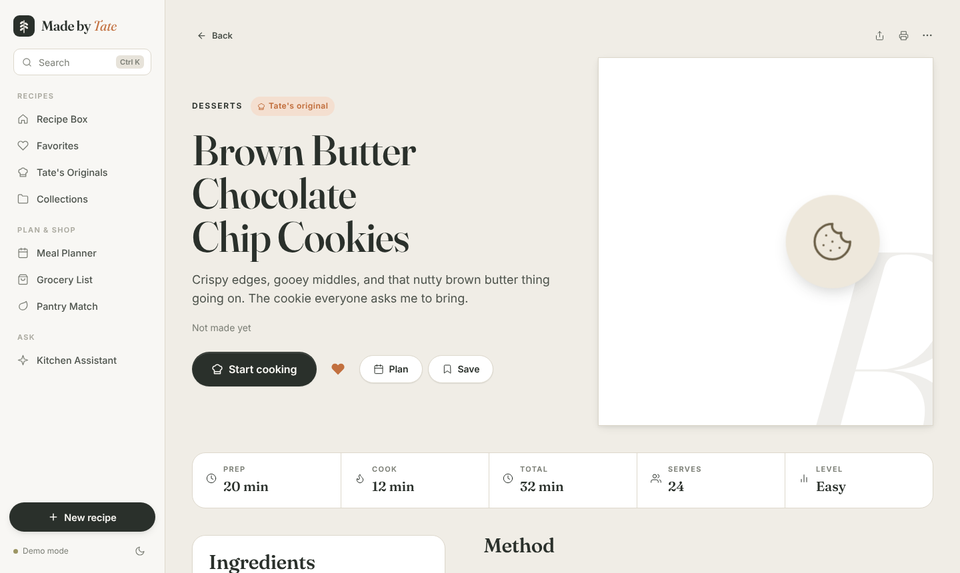
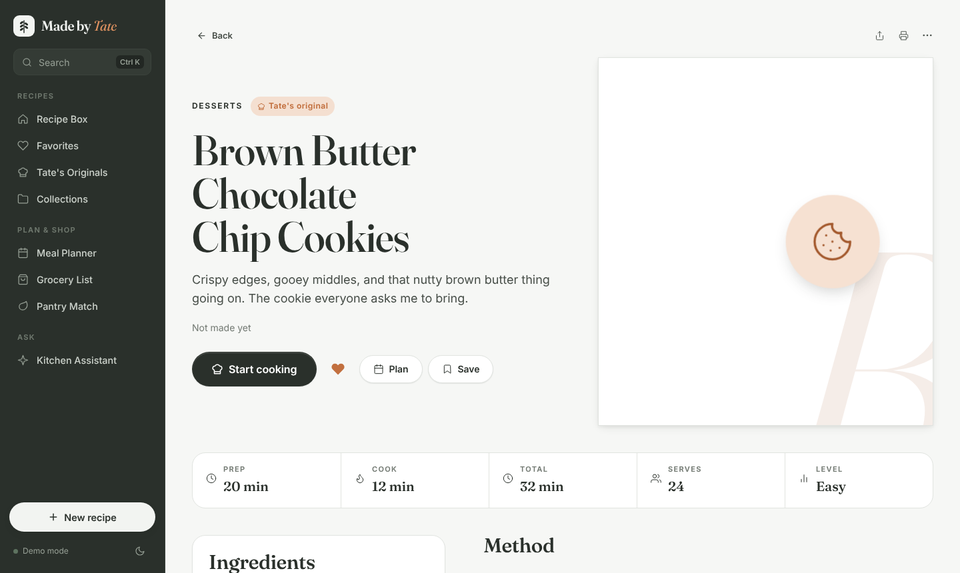
Drop the tan tones; forest green sidebar and mobile bars
Light mode is now white and soft neutral grey-green instead of pearl
and matcha. The sidebar and the phone top and bottom bars use the
forest green surface (a shared .forest-surface token scope), matching
cook mode, whose accents move from matcha to sage. Recipe covers lose
their tan palettes.

Claude-Session: https://claude.ai/code/session_01Nc4sFvbNj8oEmtLyooanVQ

Changed region(s): [[0.0, 0.0, 0.1875, 1.0], [0.8438, 0.3857, 0.9062, 0.445]]

diff --git a/client/src/styles/globals.css b/client/src/styles/globals.css
@@ -1,40 +1,40 @@
 /* ─── Made by Tate — Design Tokens ──────────────────────────────
-   Palette: Pearl Oatmilk #F0EDE6, Golden Matcha #B4AD7E, Citrus Spice #D08453,
-   Forest Depth #2A302B. (--herb = forest/primary, --terracotta = citrus accent,
-   --saffron = matcha.)
+   White surfaces, Forest Depth #2A302B for ink, buttons, the sidebar and cook
+   mode, and Citrus Spice #D08453 as the accent. No tan.
+   (--herb = forest/primary, --terracotta = citrus accent, --saffron = sage.)
    Every color is a token so the whole app flips to dark mode.
    ─────────────────────────────────────────────────────────────── */
 :root {
   color-scheme: light;
 
   /* Surfaces */
-  --bg:            #F0EDE6;   /* pearl oatmilk */
+  --bg:            #F6F7F5;   /* soft white */
   --bg-raised:     #FFFFFF;   /* cards */
-  --bg-sunken:     #E7E3DA;   /* wells, inputs at rest */
-  --bg-hover:      #EAE6DE;
+  --bg-sunken:     #EEF0ED;   /* wells, inputs at rest */
+  --bg-hover:      #F0F2EF;
   --bg-overlay:    rgba(30, 34, 31, 0.5);
 
   /* Ink */
   --ink:           #2A302B;
-  --ink-2:         #4C524B;
-  --ink-3:         #7A7D74;
-  --ink-4:         #ABAAA0;
-  --ink-inverse:   #FAF8F4;
+  --ink-2:         #464D47;
+  --ink-3:         #737A73;
+  --ink-4:         #A6ACA6;
+  --ink-inverse:   #FFFFFF;
 
   /* Brand */
   --herb:          #2A302B;   /* forest depth */
   --herb-strong:   #1C211D;
-  --herb-soft:     #E4E1CF;
-  --herb-faint:    #EEECE2;
+  --herb-soft:     #E2E8E1;
+  --herb-faint:    #EEF2ED;
   --terracotta:    #C2703F;
   --terracotta-soft:#F4DFD0;
-  --saffron:       #9C9563;
-  --saffron-soft:  #E9E6D4;
+  --saffron:       #5E7360;
+  --saffron-soft:  #E2E8E1;
   --berry:         #8C5A3C;
 
   /* Lines */
-  --line:          #DDD8CC;
-  --line-strong:   #C9C3B4;
+  --line:          #E1E4E0;
+  --line-strong:   #C8CEC7;
 
   /* Feedback */
   --danger:        #B3392C;
@@ -87,7 +87,7 @@
   --green-dark: var(--herb-strong);
   --green-deep: var(--herb-strong);
   --green-mid: var(--herb);
-  --green-sage: #B4AD7E;
+  --green-sage: #A9BFA5;
   --green-soft: var(--herb-soft);
   --green-mist: var(--herb-soft);
   --green-pale: var(--herb-soft);
@@ -113,19 +113,19 @@
     --bg-sunken:     #181C19;
     --bg-hover:      #333A34;
     --bg-overlay:    rgba(0, 0, 0, 0.62);
-    --ink:           #F0EDE6;
-    --ink-2:         #CFCBC0;
-    --ink-3:         #9A9A8E;
-    --ink-4:         #6A6D64;
+    --ink:           #F2F4F1;
+    --ink-2:         #CDD3CC;
+    --ink-3:         #97A096;
+    --ink-4:         #677066;
     --ink-inverse:   #1F2420;
-    --herb:          #C4BD8E;
-    --herb-strong:   #D8D2A8;
-    --herb-soft:     #3A3D2E;
-    --herb-faint:    #2C3027;
+    --herb:          #A9BFA5;
+    --herb-strong:   #C2D4BE;
+    --herb-soft:     #33402F;
+    --herb-faint:    #283127;
     --terracotta:    #E39462;
     --terracotta-soft:#4A3122;
-    --saffron:       #C4BD8E;
-    --saffron-soft:  #3A3A2C;
+    --saffron:       #A9BFA5;
+    --saffron-soft:  #33402F;
     --line:          #363D37;
     --line-strong:   #4A524B;
     --danger:        #F07B6B;
@@ -143,19 +143,19 @@
   --bg-sunken:     #181C19;
   --bg-hover:      #333A34;
   --bg-overlay:    rgba(0, 0, 0, 0.62);
-  --ink:           #F0EDE6;
-  --ink-2:         #CFCBC0;
-  --ink-3:         #9A9A8E;
-  --ink-4:         #6A6D64;
+  --ink:           #F2F4F1;
+  --ink-2:         #CDD3CC;
+  --ink-3:         #97A096;
+  --ink-4:         #677066;
   --ink-inverse:   #1F2420;
-  --herb:          #C4BD8E;
-  --herb-strong:   #D8D2A8;
-  --herb-soft:     #3A3D2E;
-  --herb-faint:    #2C3027;
+  --herb:          #A9BFA5;
+  --herb-strong:   #C2D4BE;
+  --herb-soft:     #33402F;
+  --herb-faint:    #283127;
   --terracotta:    #E39462;
   --terracotta-soft:#4A3122;
-  --saffron:       #C4BD8E;
-  --saffron-soft:  #3A3A2C;
+  --saffron:       #A9BFA5;
+  --saffron-soft:  #33402F;
   --line:          #363D37;
   --line-strong:   #4A524B;
   --danger:        #F07B6B;
@@ -164,6 +164,28 @@
   --shadow-2: 0 6px 18px -6px rgba(0,0,0,0.6);
   --shadow-3: 0 24px 54px -18px rgba(0,0,0,0.75);
   --ring:     0 0 0 3px rgba(227, 148, 98, 0.32);
+}
+
+/* Always-dark forest surfaces: the sidebar and mobile nav bars */
+.forest-surface {
+  --bg:            #2A302B;
+  --bg-raised:     #343B35;
+  --bg-sunken:     #222723;
+  --bg-hover:      #39413A;
+  --ink:           #F2F4F1;
+  --ink-2:         #CDD3CC;
+  --ink-3:         #97A096;
+  --ink-4:         #6F786E;
+  --ink-inverse:   #2A302B;
+  --herb:          #F2F4F1;
+  --herb-strong:   #FFFFFF;
+  --herb-soft:     #3D463D;
+  --herb-faint:    #343B35;
+  --terracotta:    #E39462;
+  --line:          #3B433C;
+  --line-strong:   #4E574F;
+  color-scheme: dark;
+  color: var(--ink);
 }
 
 /* ─── Reset ─────────────────────────────────────────────────── */

diff --git a/client/src/pages/CookModePage.module.css b/client/src/pages/CookModePage.module.css
@@ -4,16 +4,16 @@
   --bg-raised: #252B26;
   --bg-sunken: #141815;
   --bg-hover: #2F3630;
-  --ink: #F0EDE6;
-  --ink-2: #D3CFC4;
+  --ink: #F2F4F1;
+  --ink-2: #CDD3CC;
   --ink-3: #9C9C90;
   --ink-4: #686B62;
   --ink-inverse: #1A1F1B;
-  --herb: #C4BD8E;
-  --herb-strong: #D8D2A8;
-  --herb-soft: #3A3D2E;
-  --saffron: #C4BD8E;
-  --saffron-soft: #3A3A2C;
+  --herb: #B5CBB0;
+  --herb-strong: #CBDCC7;
+  --herb-soft: #33402F;
+  --saffron: #B5CBB0;
+  --saffron-soft: #33402F;
   --terracotta: #E39462;
   --line: #353C36;
   --line-strong: #4A524B;
@@ -23,7 +23,7 @@
   display: flex;
   flex-direction: column;
   background:
-    radial-gradient(90% 60% at 80% 0%, rgba(196, 189, 142, 0.10), transparent 60%),
+    radial-gradient(90% 60% at 80% 0%, rgba(181, 203, 176, 0.10), transparent 60%),
     radial-gradient(70% 50% at 0% 100%, rgba(227, 148, 98, 0.08), transparent 60%),
     var(--bg);
   color: var(--ink);
@@ -159,7 +159,7 @@
   height: 60px; border-radius: var(--r-pill);
   background: var(--herb); color: var(--ink-inverse);
   font-weight: 700; font-size: 1.0625rem;
-  box-shadow: 0 10px 30px -10px rgba(196, 189, 142, 0.55);
+  box-shadow: 0 10px 30px -10px rgba(181, 203, 176, 0.45);
   transition: transform var(--t-fast) ease, background var(--t-fast) ease;
 }
 .nextBtn:hover { background: var(--herb-strong); }

diff --git a/client/src/components/layout/MobileNav.tsx b/client/src/components/layout/MobileNav.tsx
@@ -26,7 +26,7 @@ export function MobileNav({ onOpenSearch }: { onOpenSearch: () => void }) {
 
   return (
     <>
-      <header className={styles.topBar}>
+      <header className={`${styles.topBar} forest-surface`}>
         <Brand compact />
         <div className={styles.topActions}>
           <button className={styles.iconBtn} onClick={onOpenSearch} aria-label="Search">
@@ -41,7 +41,7 @@ export function MobileNav({ onOpenSearch }: { onOpenSearch: () => void }) {
         </div>
       </header>
 
-      <nav className={styles.tabBar} aria-label="Main">
+      <nav className={`${styles.tabBar} forest-surface`} aria-label="Main">
         {TABS.map(({ to, label, Icon }) => (
           <NavLink key={to} to={to} end={to === '/'} className={({ isActive }) => `${styles.tab} ${isActive ? styles.tabActive : ''}`}>
             <span className={styles.tabIcon}>

diff --git a/client/src/components/ui/RecipeCover.tsx b/client/src/components/ui/RecipeCover.tsx
@@ -5,13 +5,11 @@ import styles from './RecipeCover.module.css'
 
 /** Curated palettes for recipes without a photo: [background, ink] */
 const PALETTES: [string, string, string][] = [
-  ['#E6E3D0', '#5E5A36', '#D7D2B6'], // golden matcha
-  ['#F3DFCF', '#A3582C', '#EACBB2'], // citrus spice
-  ['#DDE0D8', '#2A302B', '#CACFC5'], // forest mist
-  ['#EEE8DC', '#6A5E46', '#E1D9C8'], // pearl oatmilk
-  ['#E9E5CF', '#77703F', '#DBD5B6'], // matcha cream
-  ['#F5E4D6', '#B8653A', '#EDD0BA'], // apricot
-  ['#D9DCD3', '#3D473E', '#C4CABF'], // sage forest
+  ['#E4EAE3', '#2A302B', '#D2DBD0'], // forest mist
+  ['#F6E1D2', '#A3582C', '#EDCDB6'], // citrus spice
+  ['#E8ECE7', '#3D473E', '#D7DED5'], // sage
+  ['#EEF0ED', '#4A524B', '#DFE3DE'], // stone
+  ['#DDE6DC', '#2F4A33', '#C9D6C7'], // fern
 ]
 
 export function paletteFor(seed: string) {

diff --git a/client/index.html b/client/index.html
@@ -5,7 +5,7 @@
     <link rel="icon" type="image/svg+xml" href="/favicon.svg" />
     <link rel="manifest" href="/manifest.webmanifest" />
     <meta name="viewport" content="width=device-width, initial-scale=1.0, viewport-fit=cover" />
-    <meta name="theme-color" content="#F0EDE6" media="(prefers-color-scheme: light)" />
+    <meta name="theme-color" content="#2A302B" media="(prefers-color-scheme: light)" />
     <meta name="theme-color" content="#1F2420" media="(prefers-color-scheme: dark)" />
     <meta name="apple-mobile-web-app-capable" content="yes" />
     <meta name="apple-mobile-web-app-title" content="Made by Tate" />

diff --git a/client/src/components/layout/Sidebar.tsx b/client/src/components/layout/Sidebar.tsx
@@ -15,7 +15,7 @@ export function Sidebar({ onOpenSearch }: { onOpenSearch: () => void }) {
   const isMac = typeof navigator !== 'undefined' && /Mac|iPhone|iPad/.test(navigator.platform)
 
   return (
-    <aside className={styles.sidebar}>
+    <aside className={`${styles.sidebar} forest-surface`}>
       <div className={styles.top}>
         <Brand />
         <button className={styles.search} onClick={onOpenSearch}>

diff --git a/client/src/styles/print.css b/client/src/styles/print.css
@@ -53,7 +53,7 @@
     border: 3px solid #C2703F;
     border-radius: 12pt;
     padding: 24pt;
-    background: #F7F4EE !important;
+    background: #F6F7F5 !important;
     -webkit-print-color-adjust: exact;
     print-color-adjust: exact;
   }
@@ -67,7 +67,7 @@
 
   .print-card .print-divider {
     border: none;
-    border-top: 2px solid #D7D2B6;
+    border-top: 2px solid #C8CEC7;
     margin: 12pt 0;
   }
 

diff --git a/client/src/hooks/useTheme.ts b/client/src/hooks/useTheme.ts
@@ -52,7 +52,7 @@ export function useTheme() {
 
   useEffect(() => {
     const meta = document.querySelectorAll('meta[name="theme-color"]')
-    meta.forEach((m) => m.setAttribute('content', isDark ? '#1F2420' : '#F0EDE6'))
+    meta.forEach((m) => m.setAttribute('content', isDark ? '#1F2420' : '#2A302B'))
   }, [isDark])
 
   const setChoice = useCallback((c: ThemeChoice) => apply(c), [])

diff --git a/client/src/components/layout/Sidebar.module.css b/client/src/components/layout/Sidebar.module.css
@@ -8,7 +8,7 @@
   gap: 8px;
   padding: 22px 14px 16px;
   border-right: 1px solid var(--line);
-  background: color-mix(in srgb, var(--bg-raised) 55%, var(--bg));
+  background: var(--bg);
   overflow-y: auto;
   flex-shrink: 0;
   z-index: 50;
